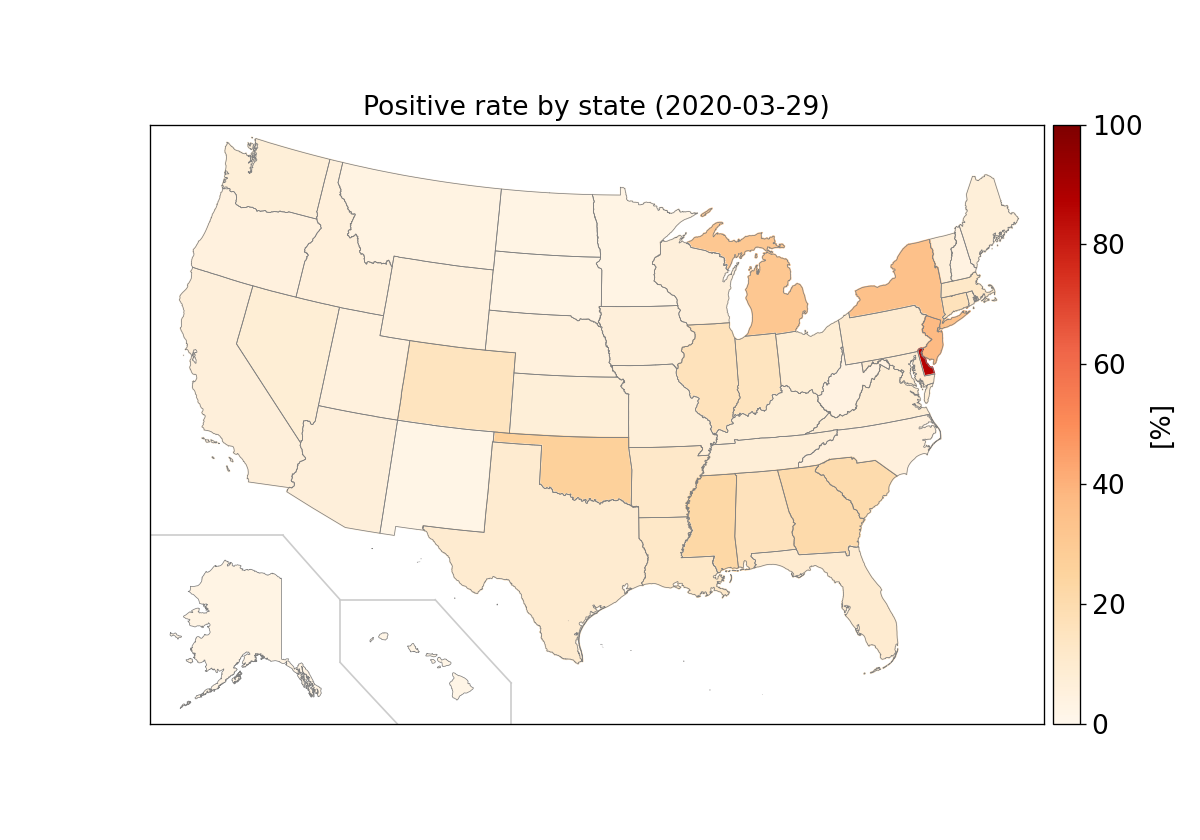
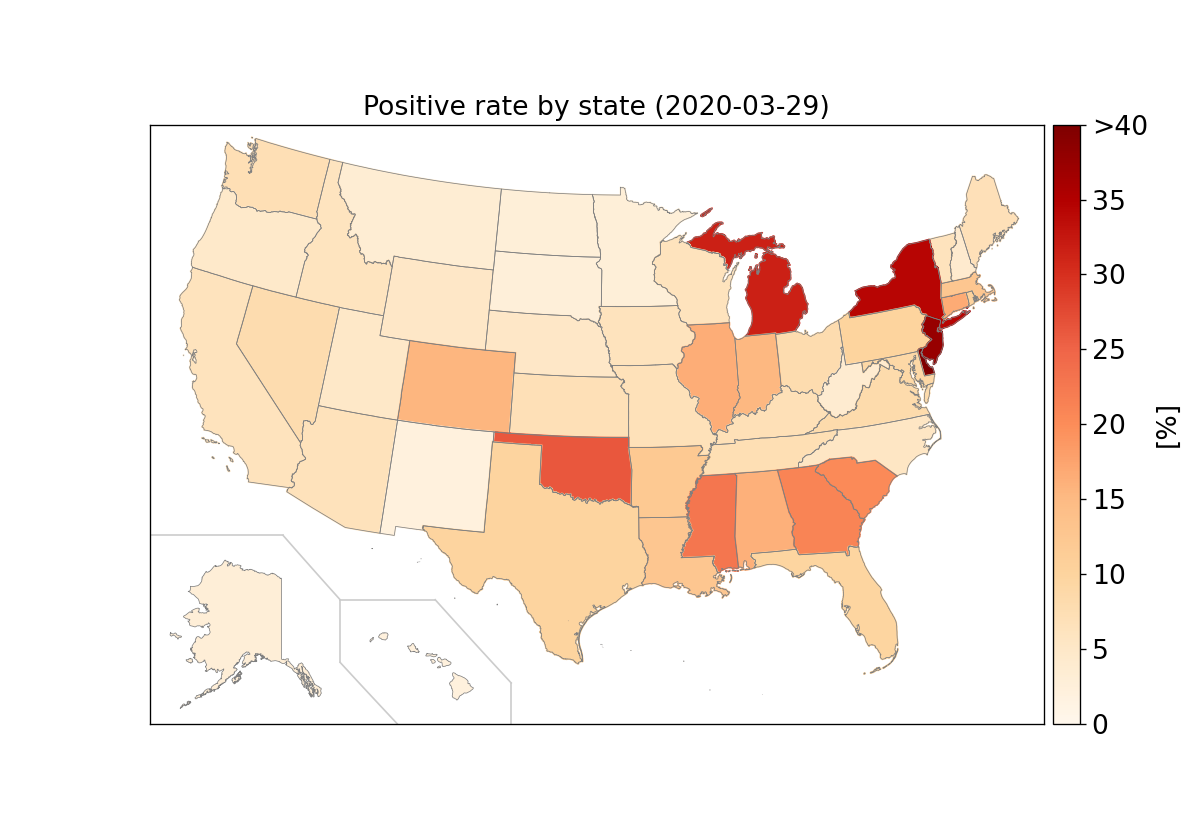
Adjust limits of some maps

diff --git a/scripts/Map_positive_case_increase_rate.py b/scripts/Map_positive_case_increase_rate.py
@@ -18,7 +18,7 @@ fig, ax = pu.choropleth_map_state(
     three_day_increase,
     map_title=f'New cases, from {three_days_ago} to {today}',
     unit='',
-    vmax=20000,
+    vmax=30000,
     vmin=0,
     dpi=120,
     fontsize=16,

diff --git a/scripts/Map_current_positive.py b/scripts/Map_current_positive.py
@@ -33,7 +33,7 @@ fig, _ = pu.choropleth_map_state(
     pos_rate,
     map_title=f'Positive rate by state ({today})',
     unit='[%]',
-    vmax=100.0,
+    vmax=40.0,
     vmin=0.0,
     dpi=120,
     fontsize=16,
